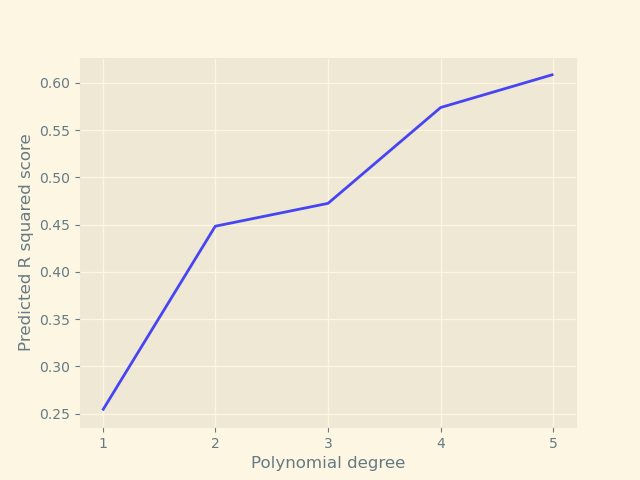
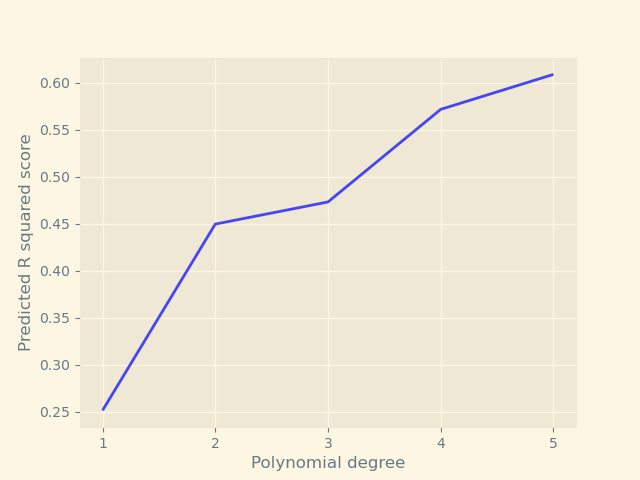
Added some plots

diff --git a/Project1/Solution/LinRegression.py b/Project1/Solution/LinRegression.py
@@ -304,7 +304,7 @@ class LinRegression:
     
         elif regression_method == 'Lasso':
 
-            lasso = Lasso(lmb, fit_intercept=False, normalize=True, tol=1e-2)
+            lasso = Lasso(lmb, fit_intercept=False, tol=1e-2)
 
             # loop over trials in order to estimate the expectation value of the MSE
             estimated_mse_folds = cross_val_score(lasso, self.X, self.y,
@@ -491,7 +491,7 @@ class LinRegression:
             self.beta = np.linalg.pinv(X_train.T @ X_train + la*I) @ X_train.T @ y_train
         elif self.regression_method == "Lasso":
 
-            RegLasso = linear_model.Lasso(la, fit_intercept=False, max_iter=int(10e4), normalize=True, tol=1e-2)
+            RegLasso = linear_model.Lasso(la, fit_intercept=False, max_iter=int(10e4), tol=1e-2)
 
             RegLasso.fit(X_train, y_train)
             self.beta = RegLasso.coef_

diff --git a/Project1/Solution/main.py b/Project1/Solution/main.py
@@ -382,7 +382,7 @@ if __name__ == '__main__':
     nlambdas = 100
     lambdas = np.logspace(-5, 1, nlambdas)
 
-    polynomal_orders = [1, 2, 3] #, 4, 5]
+    polynomal_orders = [1, 2, 3, 4, 5]
 
     (MSE_train_df_lasso,
      MSE_test_df_lasso,
@@ -401,7 +401,7 @@ if __name__ == '__main__':
     print(beta_parameters_df_lasso)
     print(summary_df_lasso)
     
-    polydegree_to_plot = 3
+    polydegree_to_plot = 5
     plots_task_1c = Plotting(polynomal_orders, MSE_test_df_lasso, 
                              R2_test_df_lasso, beta_parameters_df_lasso)
     
